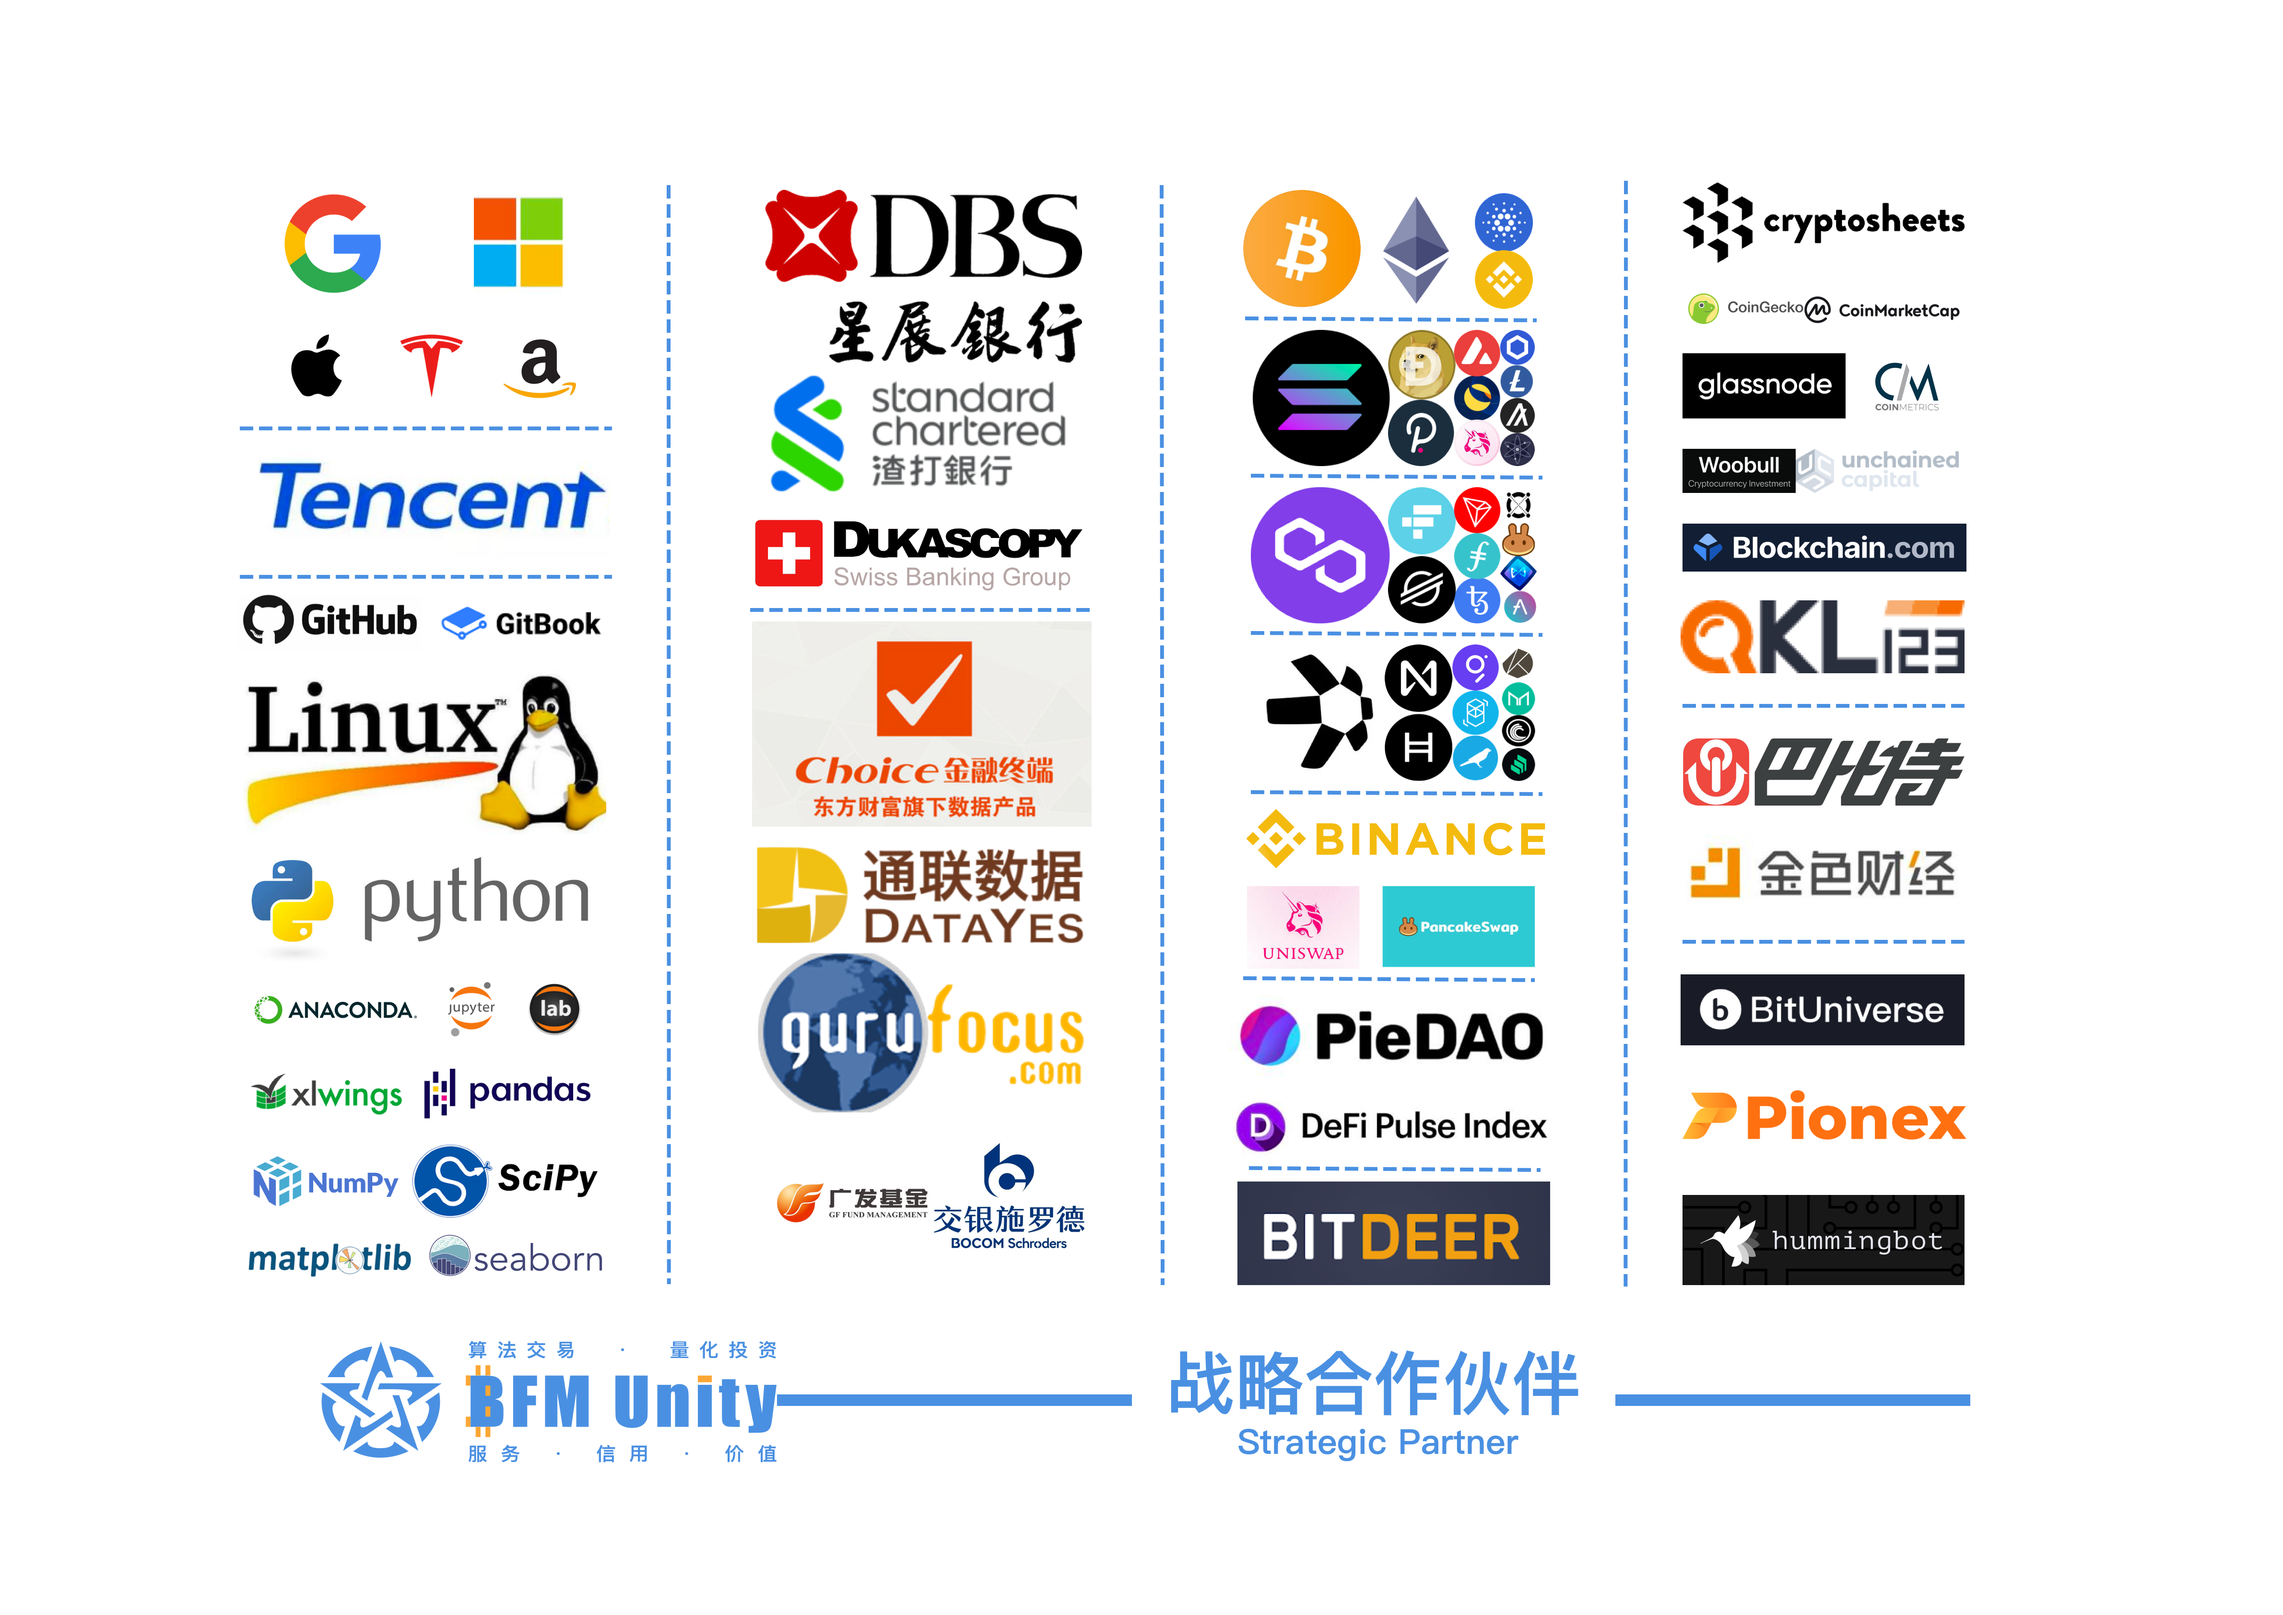
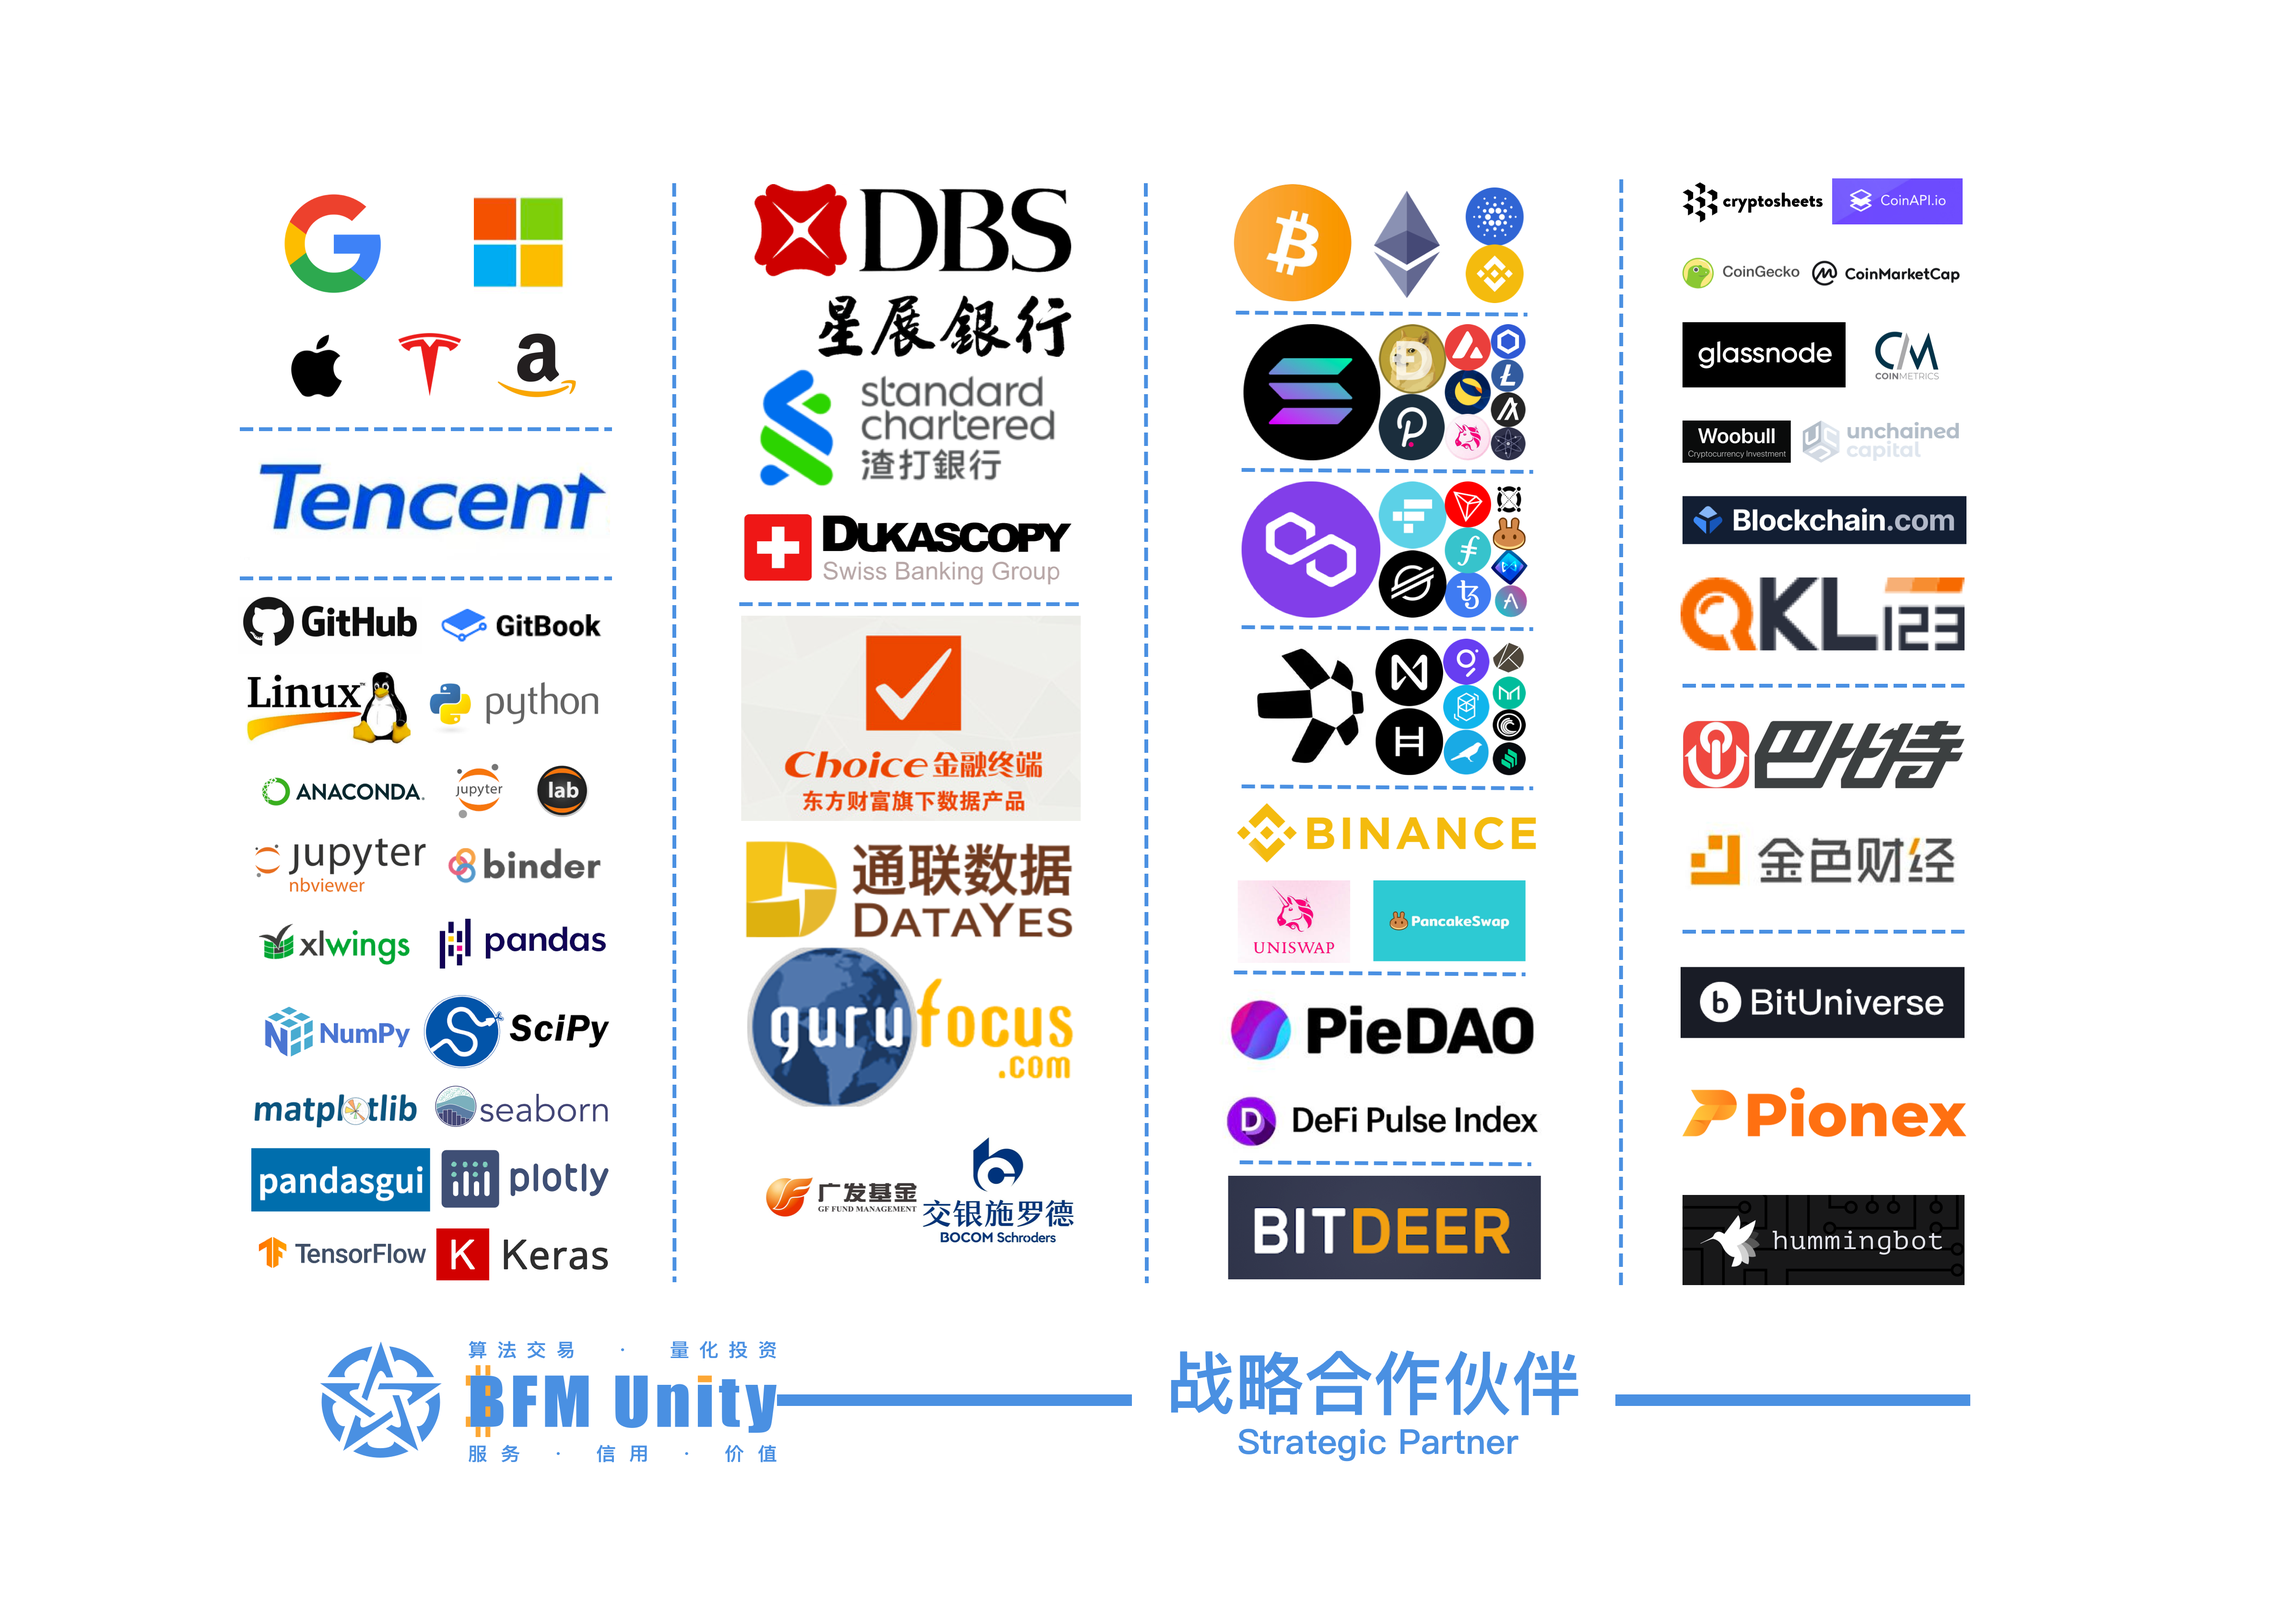
GitBook: [#3618] 你好世界

diff --git a/bfm-unity-bi-fang-meng-lian-he-ti/lv0-zhu-jian-qiao-yin-dao.md b/bfm-unity-bi-fang-meng-lian-he-ti/lv0-zhu-jian-qiao-yin-dao.md
@@ -100,7 +100,7 @@ NOTE: **This project is in beta. Use at your own risk.**
 
 ## 我们的经合关系 <a href="#zhan-lve-he-zuo-huo-ban" id="zhan-lve-he-zuo-huo-ban"></a>
 
-![](<../.gitbook/assets/BFM Unity 战略合作伙伴 (9).png>)
+![](<../.gitbook/assets/BFM Unity 战略合作伙伴 (6).png>)
 
 [全球最大的50家银行在区块链领域的布局](https://cloud.tencent.com/developer/article/1356837)
 
